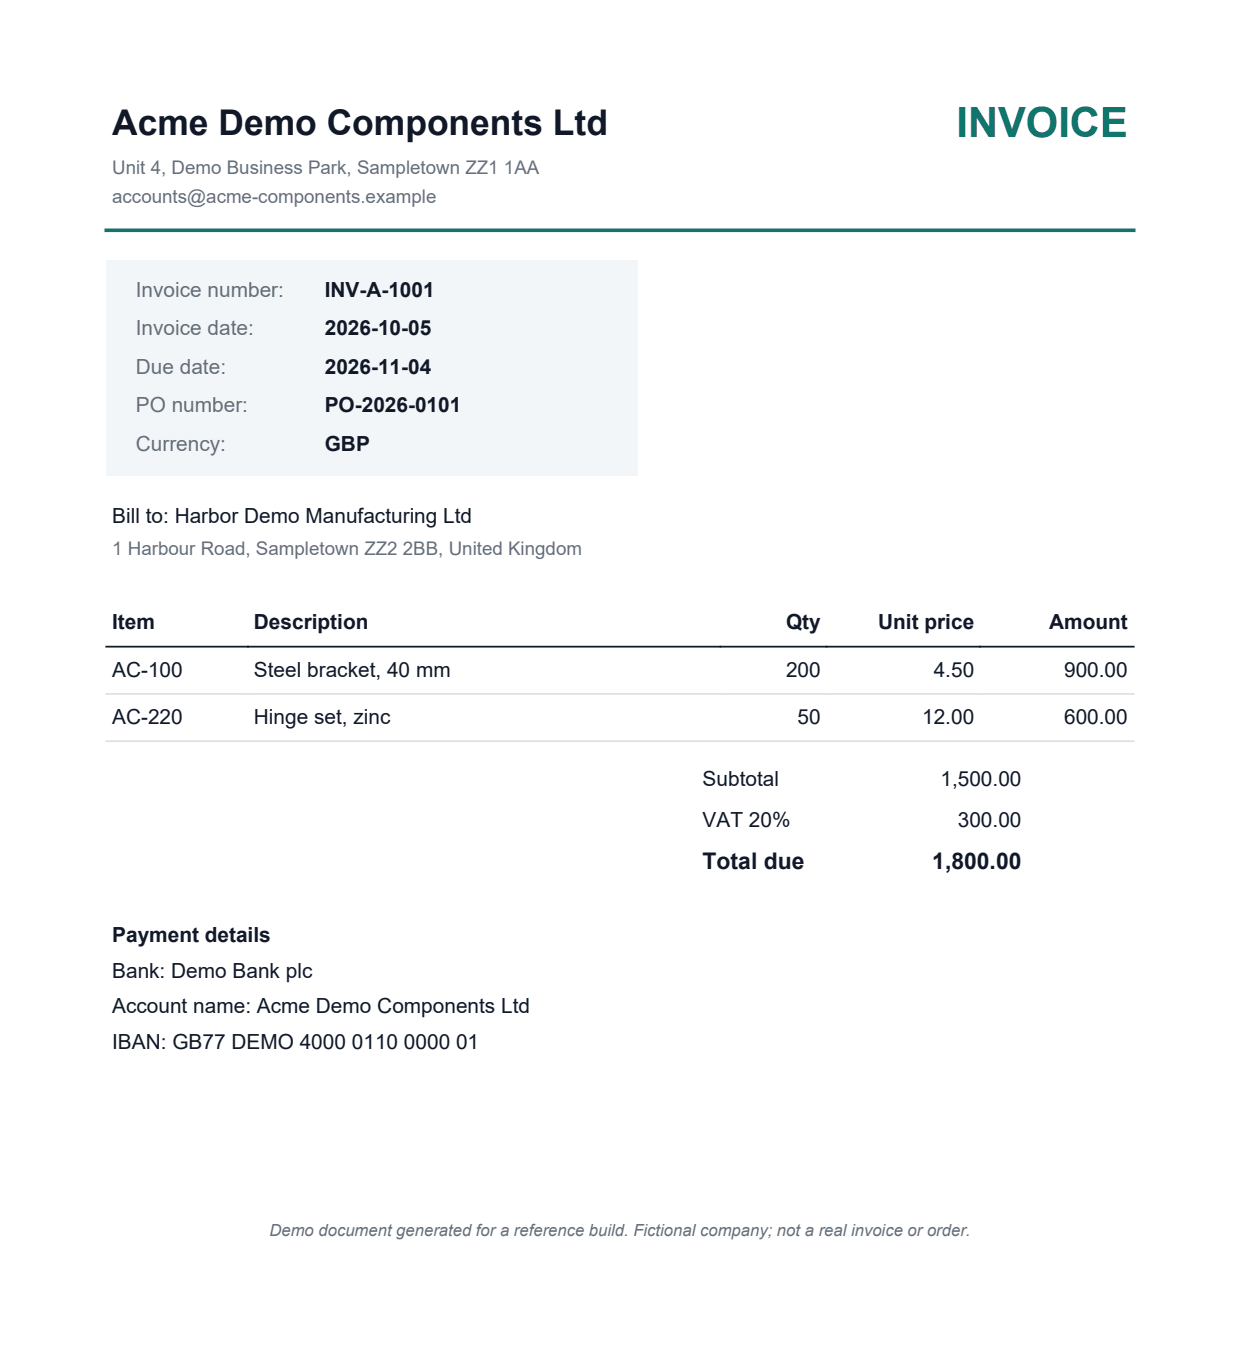
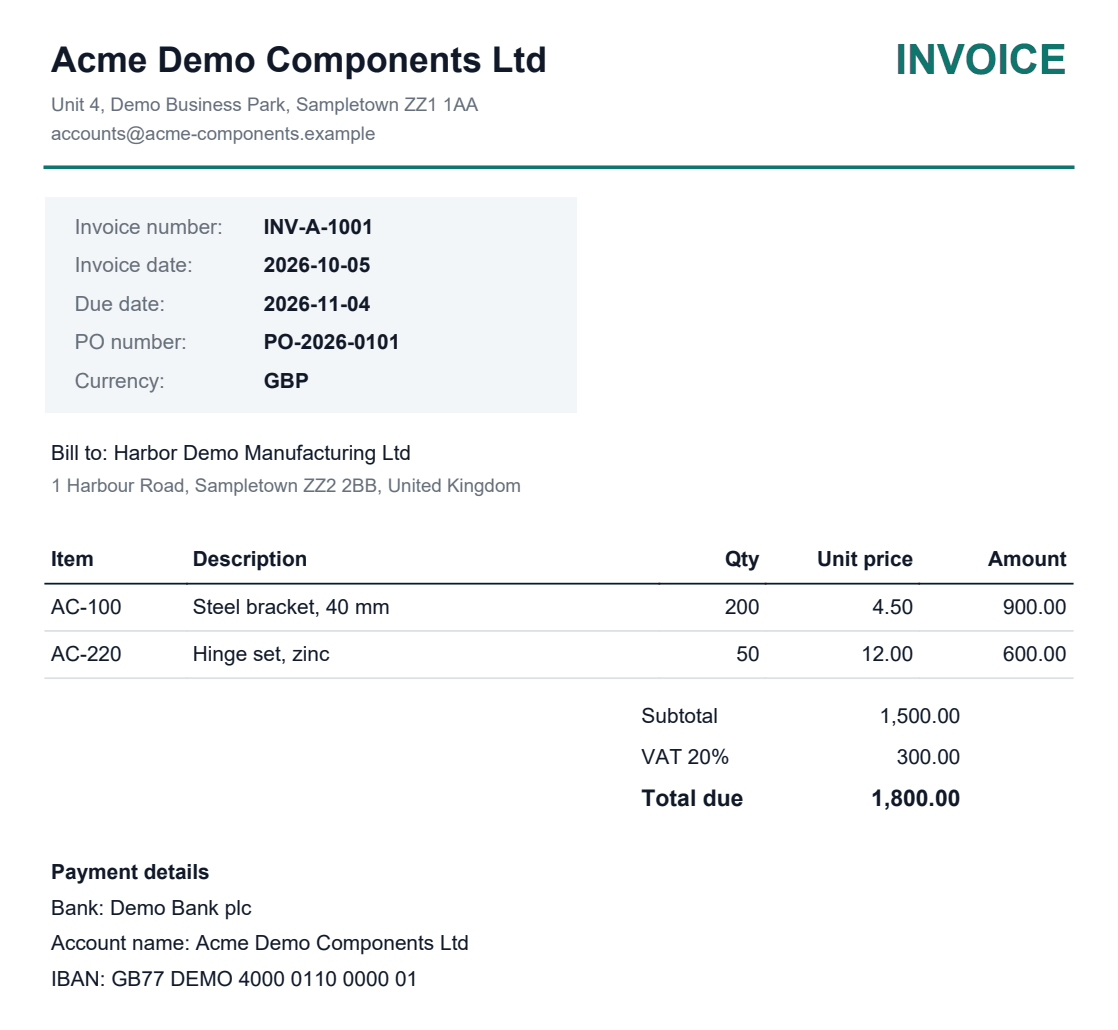
Previews: cropped to what is printed, with the cells of each line
The page images were mostly white space, so text showed at 4 to 6 pixels on a laptop and a
phone. Each preview is now cropped to its content (the fine-print footer left out), and
previews.json records each line's cells, so the page can show a long line in readable
pieces.

diff --git a/samples/make_previews.py b/samples/make_previews.py
@@ -5,13 +5,14 @@ development dependency; the demo itself never renders a PDF).
 Writes public/samples/<name>.png and public/samples/previews.json:
 
     {"01_clean_invoice.pdf": {"png": "samples/01_clean_invoice.png", "width": 1240, "height": 1754,
-                              "lines": [{"text": "Invoice number: INV-A-1001", "box": [x0, y0, x1, y1]}]}}
+                              "lines": [{"text": "Invoice number: INV-A-1001", "box": [x0, y0, x1, y1],
+                                         "cells": [[x0, x1], ...]}]}}
 
 The lines are the text layer as pypdf reads it, which is what the rules reader quotes as the
 source of each value, so the page can draw a box around the line a value came from. Boxes are
 fractions of the page, from the top left corner. Every demo PDF has one page; only page 1 is
-rendered. A scan has no text layer, so it has no lines. The large blank band between the
-content and the footer is cut out, so the text shows larger in the page.
+rendered. A scan has no text layer, so it has no lines. Each page is cropped to what is
+printed on it, without the fine-print footer, so the text shows larger in the page.
 """
 from __future__ import annotations
 
@@ -21,7 +22,7 @@ import sys
 from pathlib import Path
 
 import pypdfium2 as pdfium
-from PIL import Image
+from PIL import Image, ImageDraw
 
 ROOT = Path(__file__).resolve().parent.parent
 sys.path.insert(0, str(ROOT))
@@ -31,6 +32,7 @@ from intake.pdftext import read_text  # noqa: E402
 PDFS = ROOT / "samples" / "pdfs"
 OUT = ROOT / "public" / "samples"
 WIDTH = 1240  # pixels: A4 at 150 dpi, sharp on a high density screen at the size the page shows it
+FOOTER = "Demo document generated for a reference build."
 
 
 def squash(text: str) -> str:
@@ -70,32 +72,22 @@ def line_boxes(path: Path, page_width: float, page_height: float) -> list[dict]:
         boxes = [box for _, box in chars[at:at + len(key)]]
         left, bottom = min(b[0] for b in boxes), min(b[1] for b in boxes)
         right, top = max(b[2] for b in boxes), max(b[3] for b in boxes)
+        # The line's cells: runs of characters with no gap wider than a word space between them
+        # (a table row has several). The page cuts a long line into pieces at these gaps.
+        cells, gap = [[boxes[0][0], boxes[0][2]]], (top - bottom) * 0.9
+        for box in boxes[1:]:
+            if box[0] - cells[-1][1] > gap:
+                cells.append([box[0], box[2]])
+            else:
+                cells[-1][1] = max(cells[-1][1], box[2])
         out.append({"text": text, "box": [round(left / page_width, 4), round(1 - top / page_height, 4),
-                                          round(right / page_width, 4), round(1 - bottom / page_height, 4)]})
+                                          round(right / page_width, 4), round(1 - bottom / page_height, 4)],
+                    "cells": [[round(a / page_width, 4), round(b / page_width, 4)] for a, b in cells]})
     return out
 
 
-def blank_band(image: Image.Image) -> tuple[int, int] | None:
-    """The tallest run of empty rows in the lower part of the page (between the content and the
-    footer), as (first row, end row), or None when there is no large one."""
-    gray = image.convert("L")
-    width, height = gray.size
-    data = gray.tobytes()
-    inked = [min(data[y * width:(y + 1) * width]) < 200 for y in range(height)]
-    best, run_start = (0, 0), None
-    for y in range(height // 3, height):
-        if not inked[y] and run_start is None:
-            run_start = y
-        elif inked[y] and run_start is not None:
-            if y - run_start > best[1] - best[0]:
-                best = (run_start, y)
-            run_start = None
-    if run_start is not None and height - run_start > best[1] - best[0]:  # empty down to the edge (a scan)
-        best = (run_start, height)
-    return best if best[1] - best[0] > height * 0.12 else None
-
-
 def render(path: Path) -> dict:
+    """The page as a PNG, cropped to its content, and the box of each text line on it."""
     doc = pdfium.PdfDocument(str(path))
     try:
         page = doc[0]
@@ -104,25 +96,27 @@ def render(path: Path) -> dict:
     finally:
         doc.close()
     lines = line_boxes(path, page_width, page_height)
-    # Most of the bottom of an A4 invoice is empty paper. Cutting that band out (keeping a
-    # margin and the footer) lets the page show its text larger on screen.
-    band = blank_band(image)
-    if band:
-        keep = int(image.height * 0.05)
-        cut_from, cut_to = band[0] + keep, band[1] - keep
-        old_height = image.height
-        shorter = Image.new("RGB", (image.width, old_height - (cut_to - cut_from)), "white")
-        shorter.paste(image.crop((0, 0, image.width, cut_from)), (0, 0))
-        shorter.paste(image.crop((0, cut_to, image.width, old_height)), (0, cut_from))
-        image = shorter
-
-        def move(y: float) -> float:
-            pixel = y * old_height
-            return round((pixel if pixel < cut_from else pixel - (cut_to - cut_from)) / image.height, 4)
-
-        for line in lines:
-            x0, y0, x1, y1 = line["box"]
-            line["box"] = [x0, move(y0), x1, move(y1)]
+    # The footer is a fine-print note (the page says itself that the documents are fictional); it is
+    # left out, and the page is cropped to what is printed on it, so the text shows larger on screen.
+    footer = [line for line in lines if line["text"].startswith(FOOTER)]
+    lines = [line for line in lines if not line["text"].startswith(FOOTER)]
+    draw = ImageDraw.Draw(image)
+    for line in footer:
+        x0, y0, x1, y1 = line["box"]
+        draw.rectangle((x0 * image.width - 4, y0 * image.height - 4, x1 * image.width + 4, y1 * image.height + 4),
+                       fill="white")
+    inked = image.convert("L").point(lambda v: 255 if v < 215 else 0).getbbox() or (0, 0, image.width, image.height)
+    margin = int(image.width * 0.035)
+    left, top = max(0, inked[0] - margin), max(0, inked[1] - margin)
+    right, bottom = min(image.width, inked[2] + margin), min(image.height, inked[3] + margin)
+    old_width, old_height = image.width, image.height
+    image = image.crop((left, top, right, bottom))
+    for line in lines:
+        x0, y0, x1, y1 = line["box"]
+        line["box"] = [round((x0 * old_width - left) / image.width, 4), round((y0 * old_height - top) / image.height, 4),
+                       round((x1 * old_width - left) / image.width, 4), round((y1 * old_height - top) / image.height, 4)]
+        line["cells"] = [[round((a * old_width - left) / image.width, 4), round((b * old_width - left) / image.width, 4)]
+                         for a, b in line["cells"]]
     png = OUT / (path.stem + ".png")
     # A small palette keeps each file small; text and a scan both survive it.
     image.quantize(colors=48, method=Image.Quantize.MEDIANCUT, dither=Image.Dither.NONE).save(png, optimize=True)

diff --git a/tests/test_demo_web.py b/tests/test_demo_web.py
@@ -215,7 +215,8 @@ def test_every_sample_has_a_preview_whose_lines_match_the_text_layer():
         preview = previews[sample.file]
         assert (PUBLIC / preview["png"]).is_file()
         text = read_text(sample.path.read_bytes()).pages[0]
-        expected = [line.strip() for line in text.split("\n") if line.strip()]
+        expected = [line.strip() for line in text.split("\n") if line.strip()
+                    and not line.startswith("Demo document generated")]  # the fine-print footer is cropped off
         assert [line["text"] for line in preview["lines"]] == expected, sample.file
         assert all(0 <= x <= 1 for line in preview["lines"] for x in line["box"])
 
